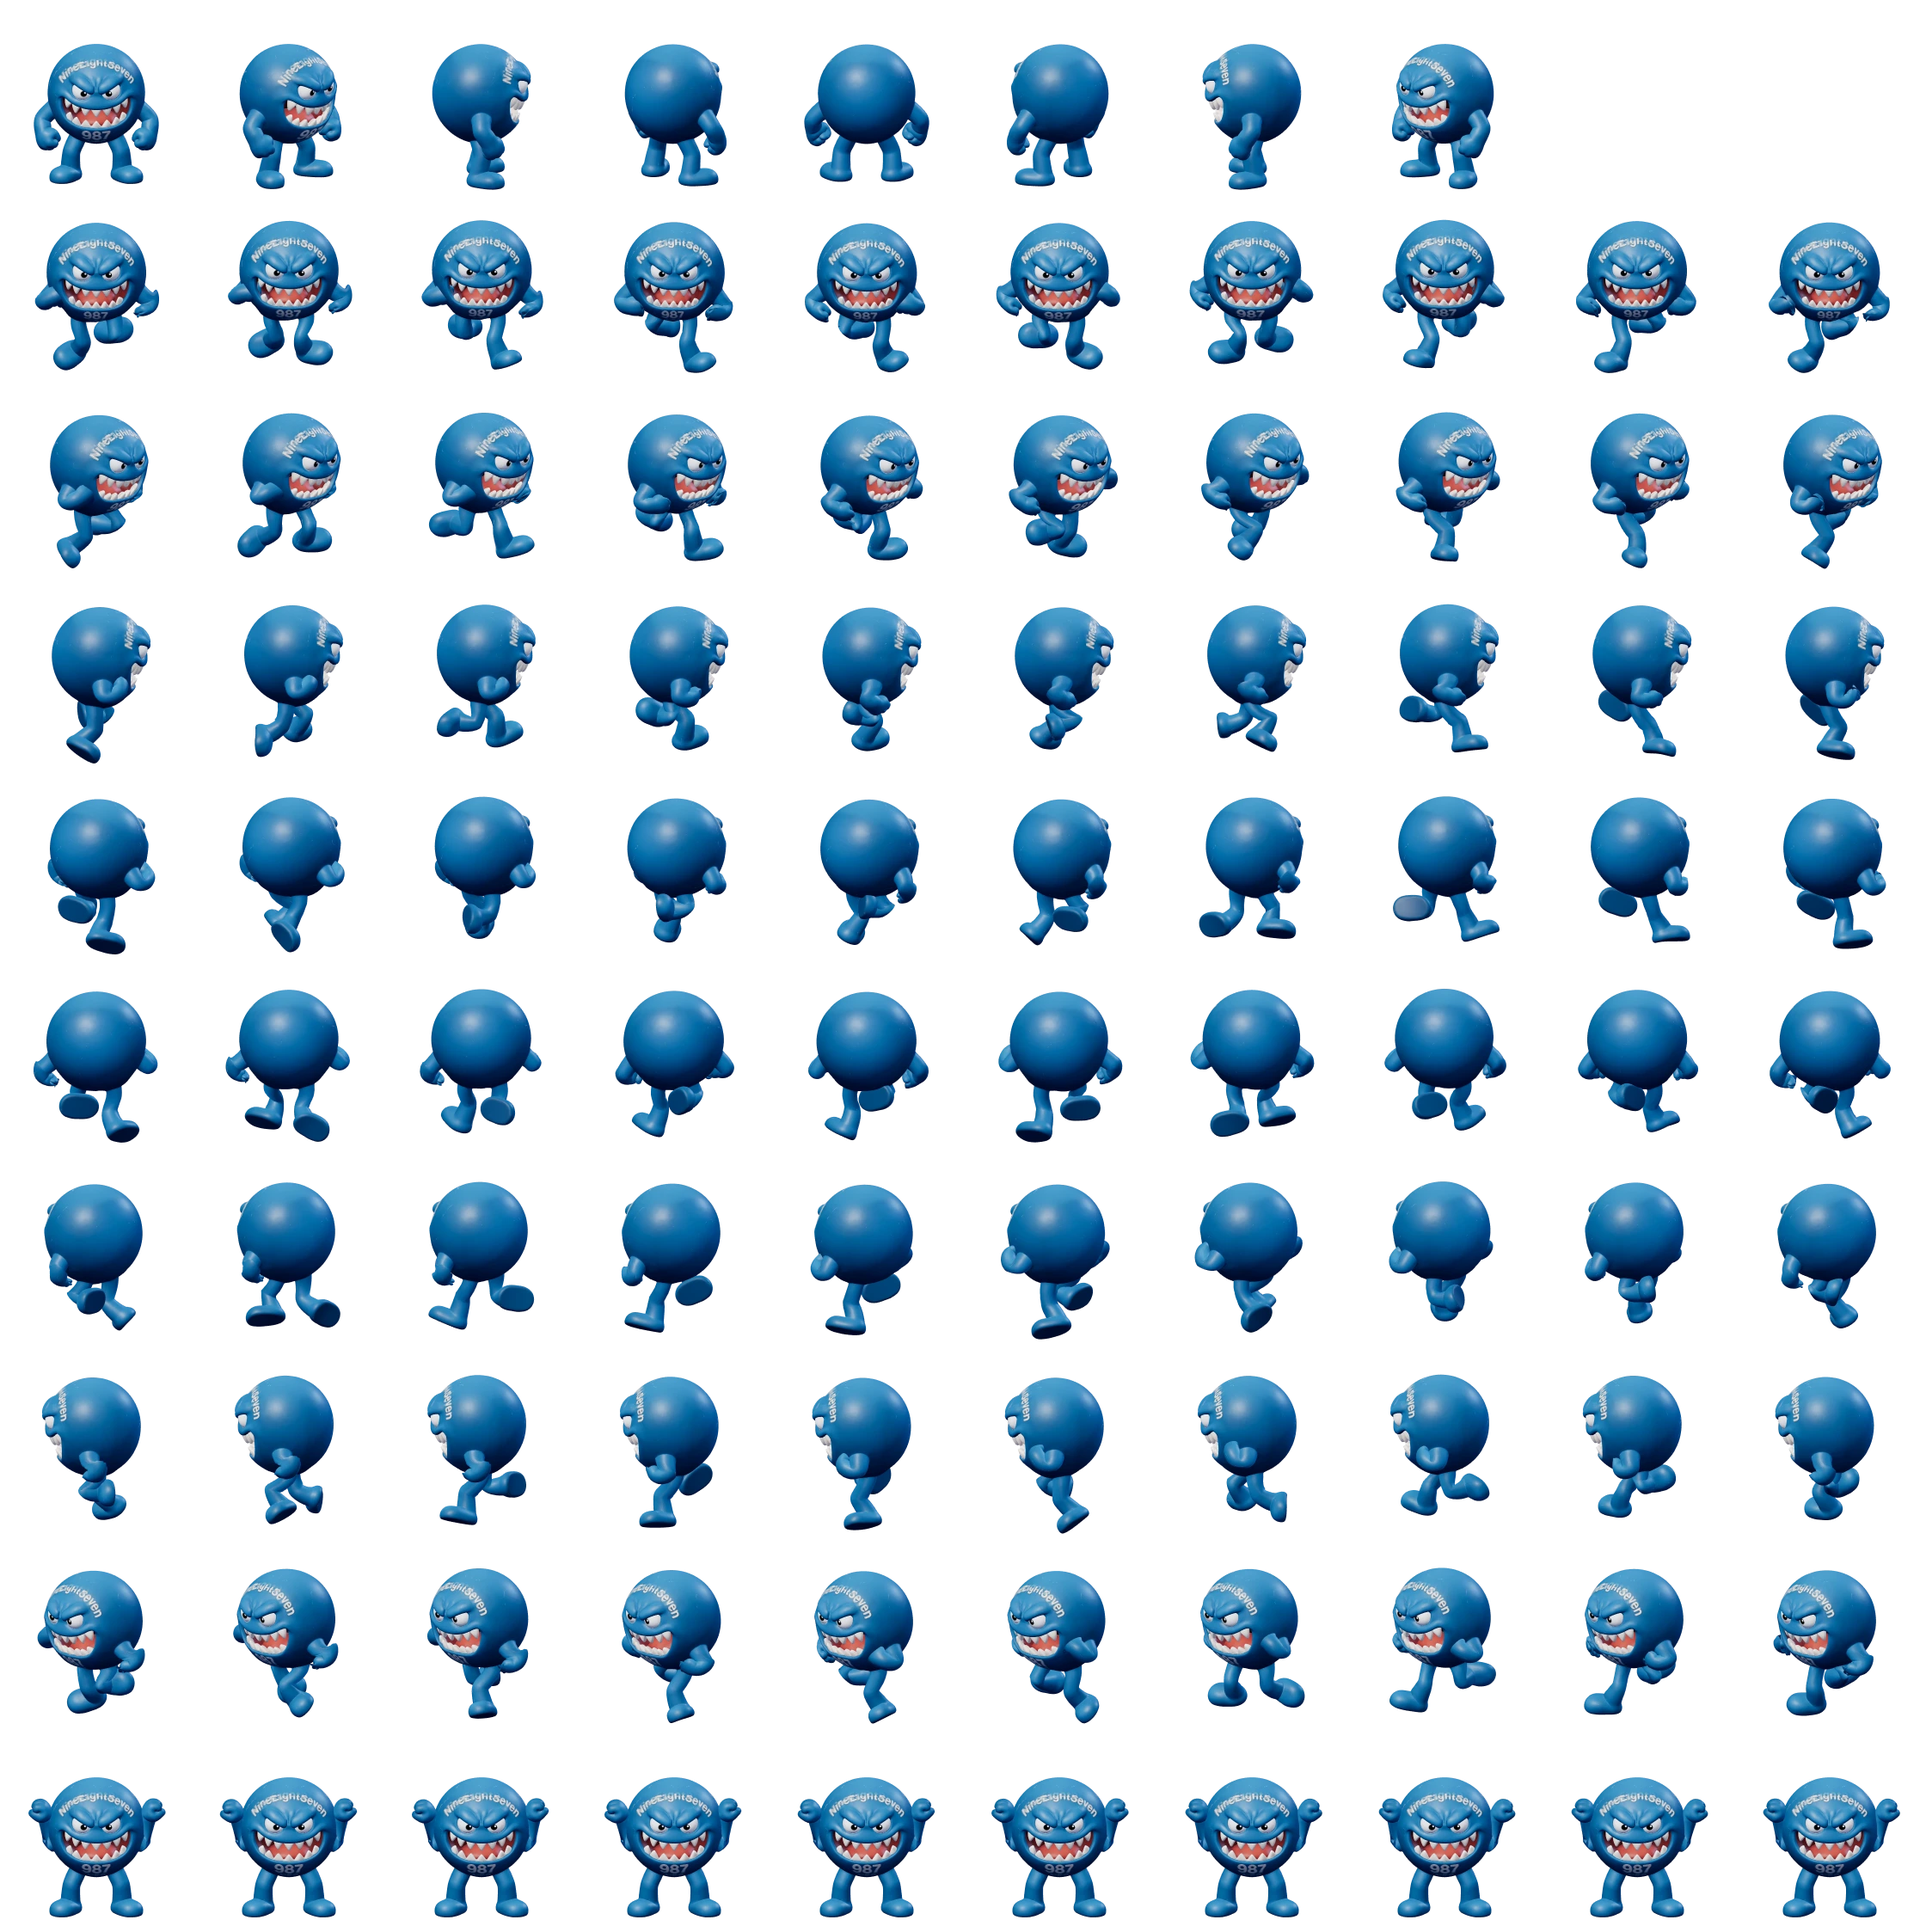
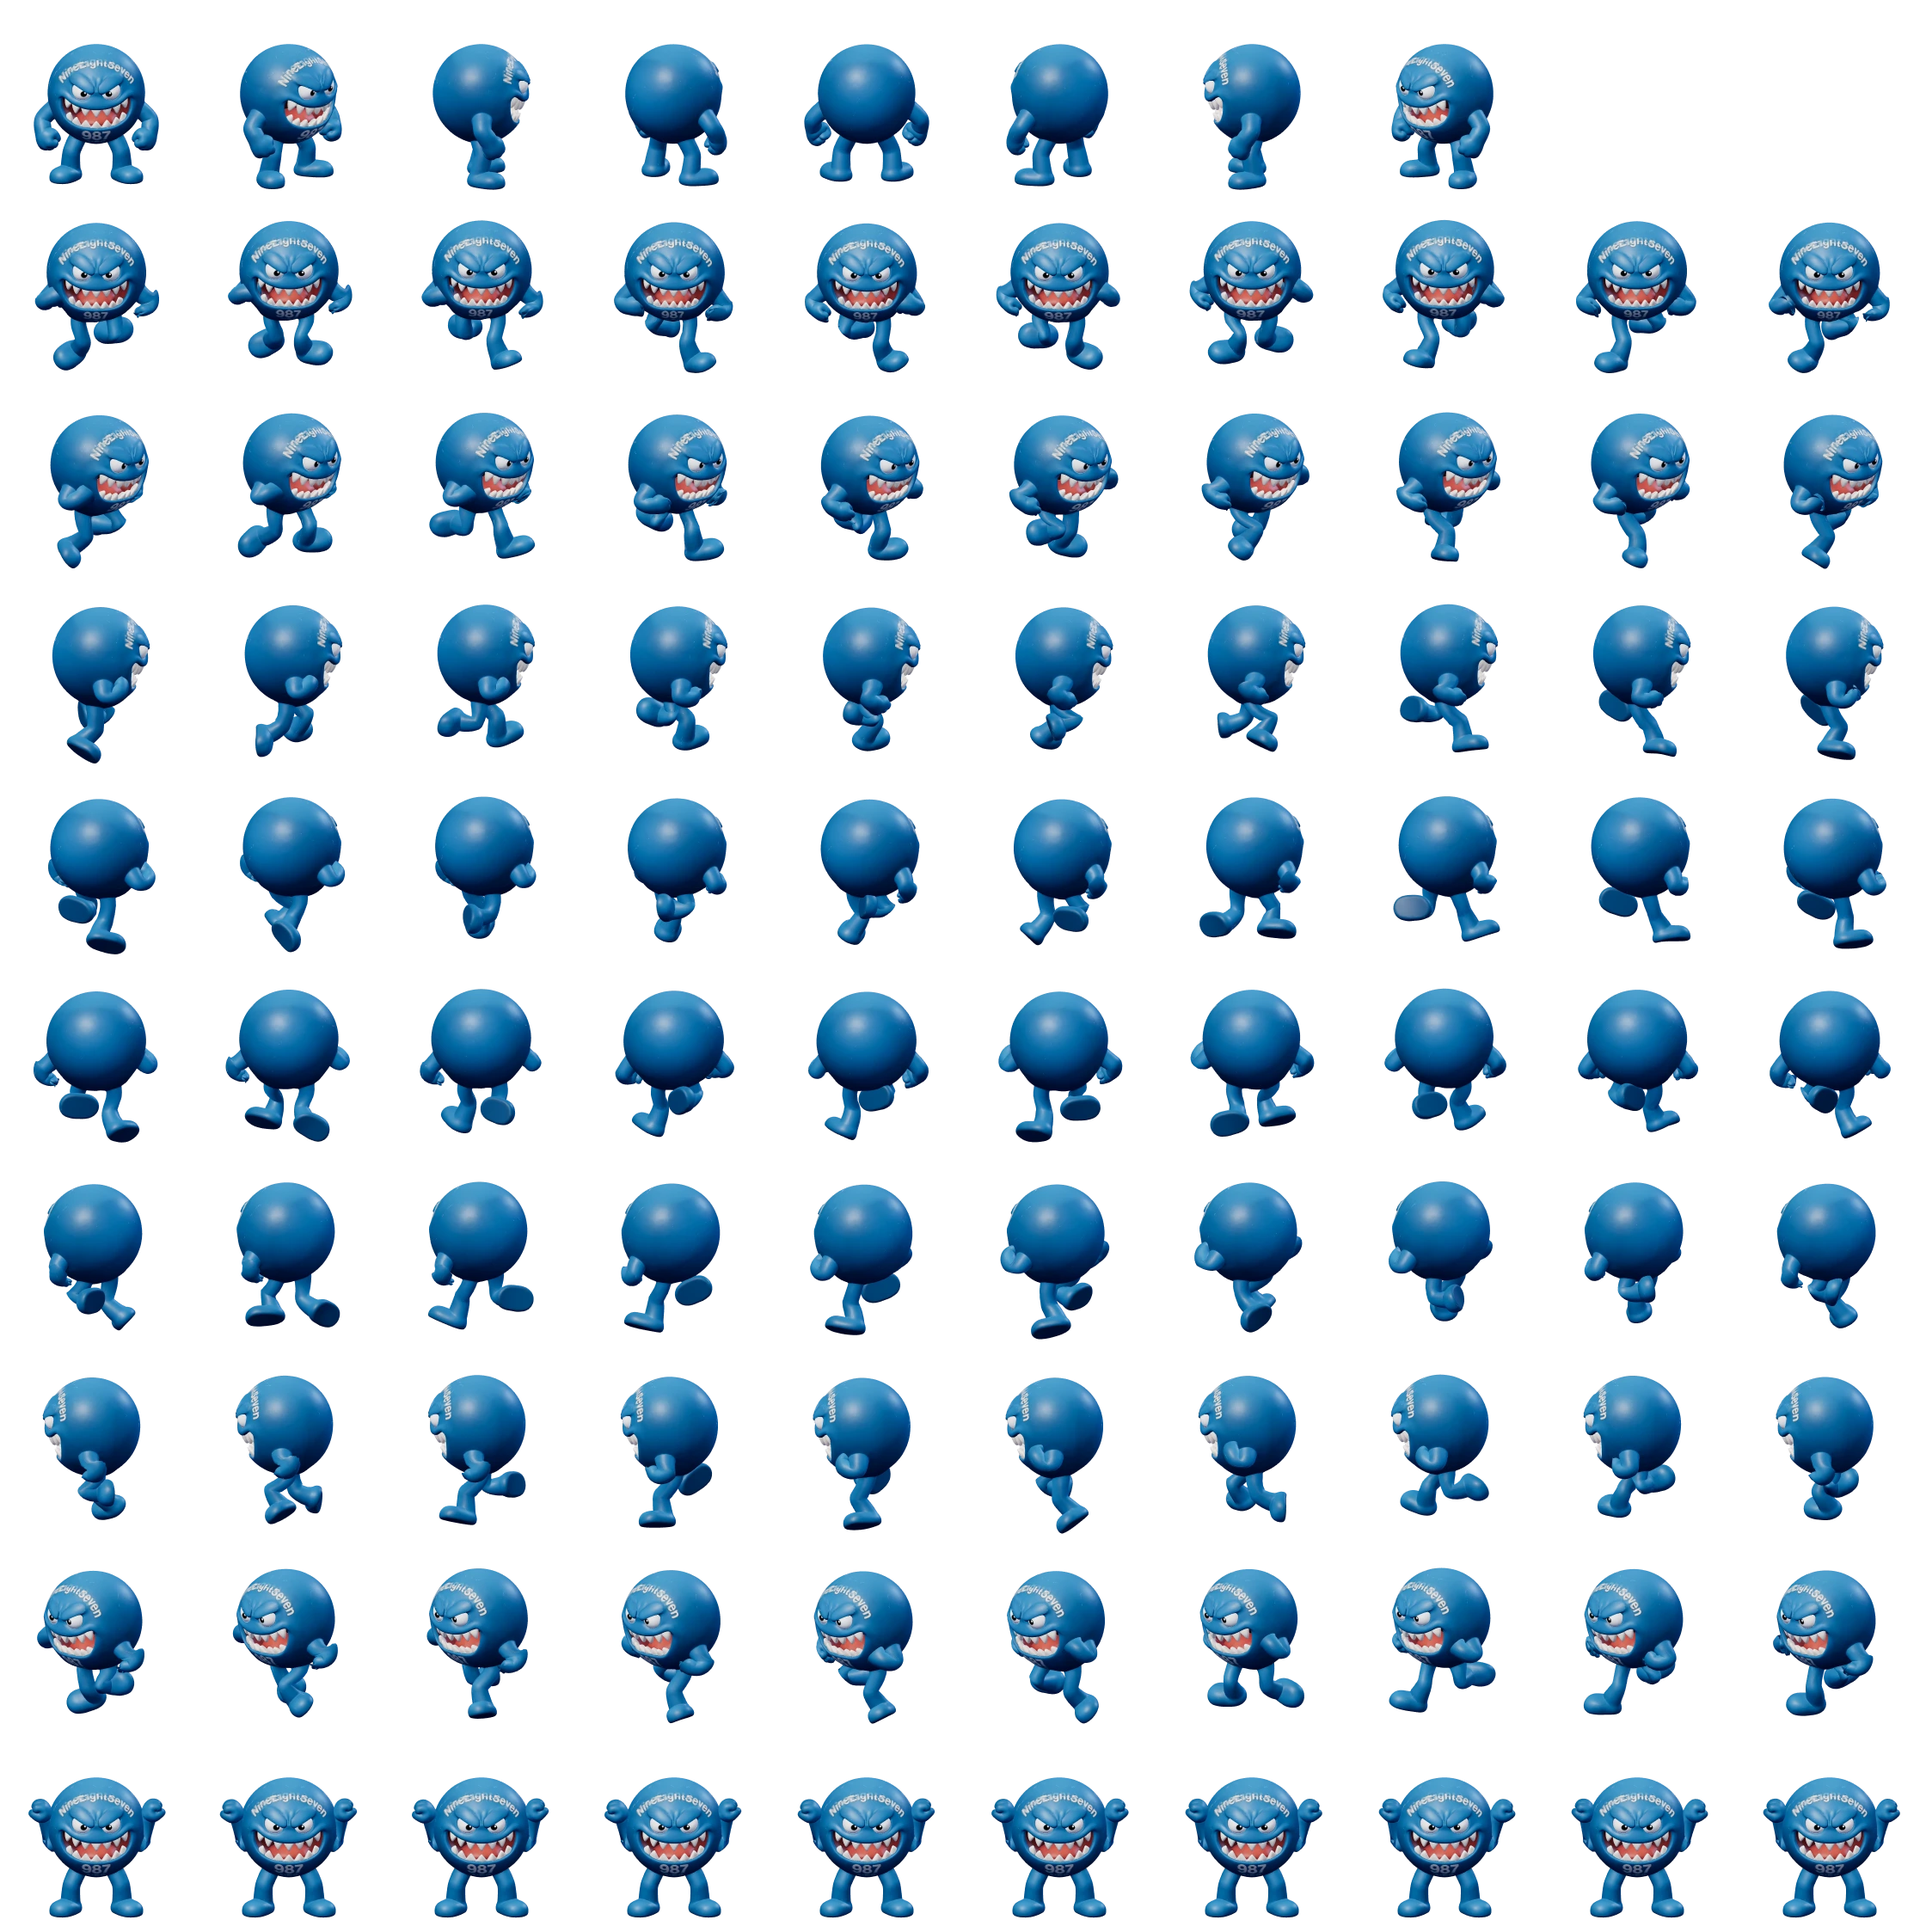
QA 0.18.0-qa3 : DZÔ, arcade des sourcils aplatie

diff --git a/survivors-qa/index.html b/survivors-qa/index.html
@@ -7773,7 +7773,7 @@ SIM.LANGUES=LANGUES;
 (function(){
 'use strict';
 if(typeof document==='undefined')return;
-var VERSION='0.18.0-qa2';
+var VERSION='0.18.0-qa3';
 /* versions dont le bloc SIM est identique octet pour octet à celui-ci : leurs parties se revoient fidèlement */
 var SIM_IDENTIQUE={'0.7.0-proto':1,'0.7.1-proto':1,'0.7.2-proto':1,'0.7.3-proto':1,'0.8.0-proto':1};
 var URL_JEU=(function(){try{return String((window.DZO_CONFIG||{}).URL_JEU||'');}catch(e){return'';}})();
@@ -9211,7 +9211,7 @@ function chargerDzo(){
    n'est pas chargée, ou si elle manque, le jeu garde l'ancien dessin (image entière). Rendu seul : la simulation n'en sait rien. */
 var DZA={pret:false,im:null,f:[],k:0,arret:0,CASE:224,PIED:208,PAS:78};
 function chargerDzoAnime(){
-  var im=new Image();im.onload=function(){DZA.im=im;DZA.pret=im.naturalWidth>=DZA.CASE*10;};im.onerror=function(){};im.src='assets/dzo-anim.webp?v=2';   /* numéro à augmenter à chaque nouvelle planche : force le rechargement de l'image */
+  var im=new Image();im.onload=function(){DZA.im=im;DZA.pret=im.naturalWidth>=DZA.CASE*10;};im.onerror=function(){};im.src='assets/dzo-anim.webp?v=3';   /* numéro à augmenter à chaque nouvelle planche : force le rechargement de l'image */
 }
 function imageDza(i){
   var s=DZA.f[i];if(s)return s;
@@ -16014,6 +16014,6 @@ visiteOuverture();
 })();
 </script>
 <div id="qaPastille" style="position:fixed;bottom:0;left:50%;transform:translateX(-50%);z-index:2147483647;cursor:pointer;background:#b3261e;color:#fff;font:700 9px/1 system-ui,sans-serif;padding:2px 10px 3px;border-radius:8px 8px 0 0;opacity:.92;letter-spacing:.03em;white-space:nowrap;user-select:none;-webkit-user-select:none;touch-action:manipulation"></div>
-<script>(function(){var p=document.getElementById("qaPastille"),N=["printemps","été","automne","hiver"],i=0;try{i=Math.max(0,Math.min(3,parseInt(localStorage.getItem("dzoqa.qaSaison"),10)||0));}catch(e){}function poser(){if(window.__sz)window.__sz.decal=i*60;p.textContent="QA 0.18.0-qa2 · départ : "+N[i]+" ▸ · © OpenStreetMap";}function appui(e){e.preventDefault();e.stopPropagation();i=(i+1)%4;try{localStorage.setItem("dzoqa.qaSaison",String(i));}catch(x){}poser();}p.addEventListener("pointerdown",appui);poser();setInterval(function(){try{var j=window.__dzo&&window.__dzo.etat().ecran==="jeu";p.style.display=j?"none":"block";}catch(e){}},300);})();</script>
+<script>(function(){var p=document.getElementById("qaPastille"),N=["printemps","été","automne","hiver"],i=0;try{i=Math.max(0,Math.min(3,parseInt(localStorage.getItem("dzoqa.qaSaison"),10)||0));}catch(e){}function poser(){if(window.__sz)window.__sz.decal=i*60;p.textContent="QA 0.18.0-qa3 · départ : "+N[i]+" ▸ · © OpenStreetMap";}function appui(e){e.preventDefault();e.stopPropagation();i=(i+1)%4;try{localStorage.setItem("dzoqa.qaSaison",String(i));}catch(x){}poser();}p.addEventListener("pointerdown",appui);poser();setInterval(function(){try{var j=window.__dzo&&window.__dzo.etat().ecran==="jeu";p.style.display=j?"none":"block";}catch(e){}},300);})();</script>
 </body>
 </html>
